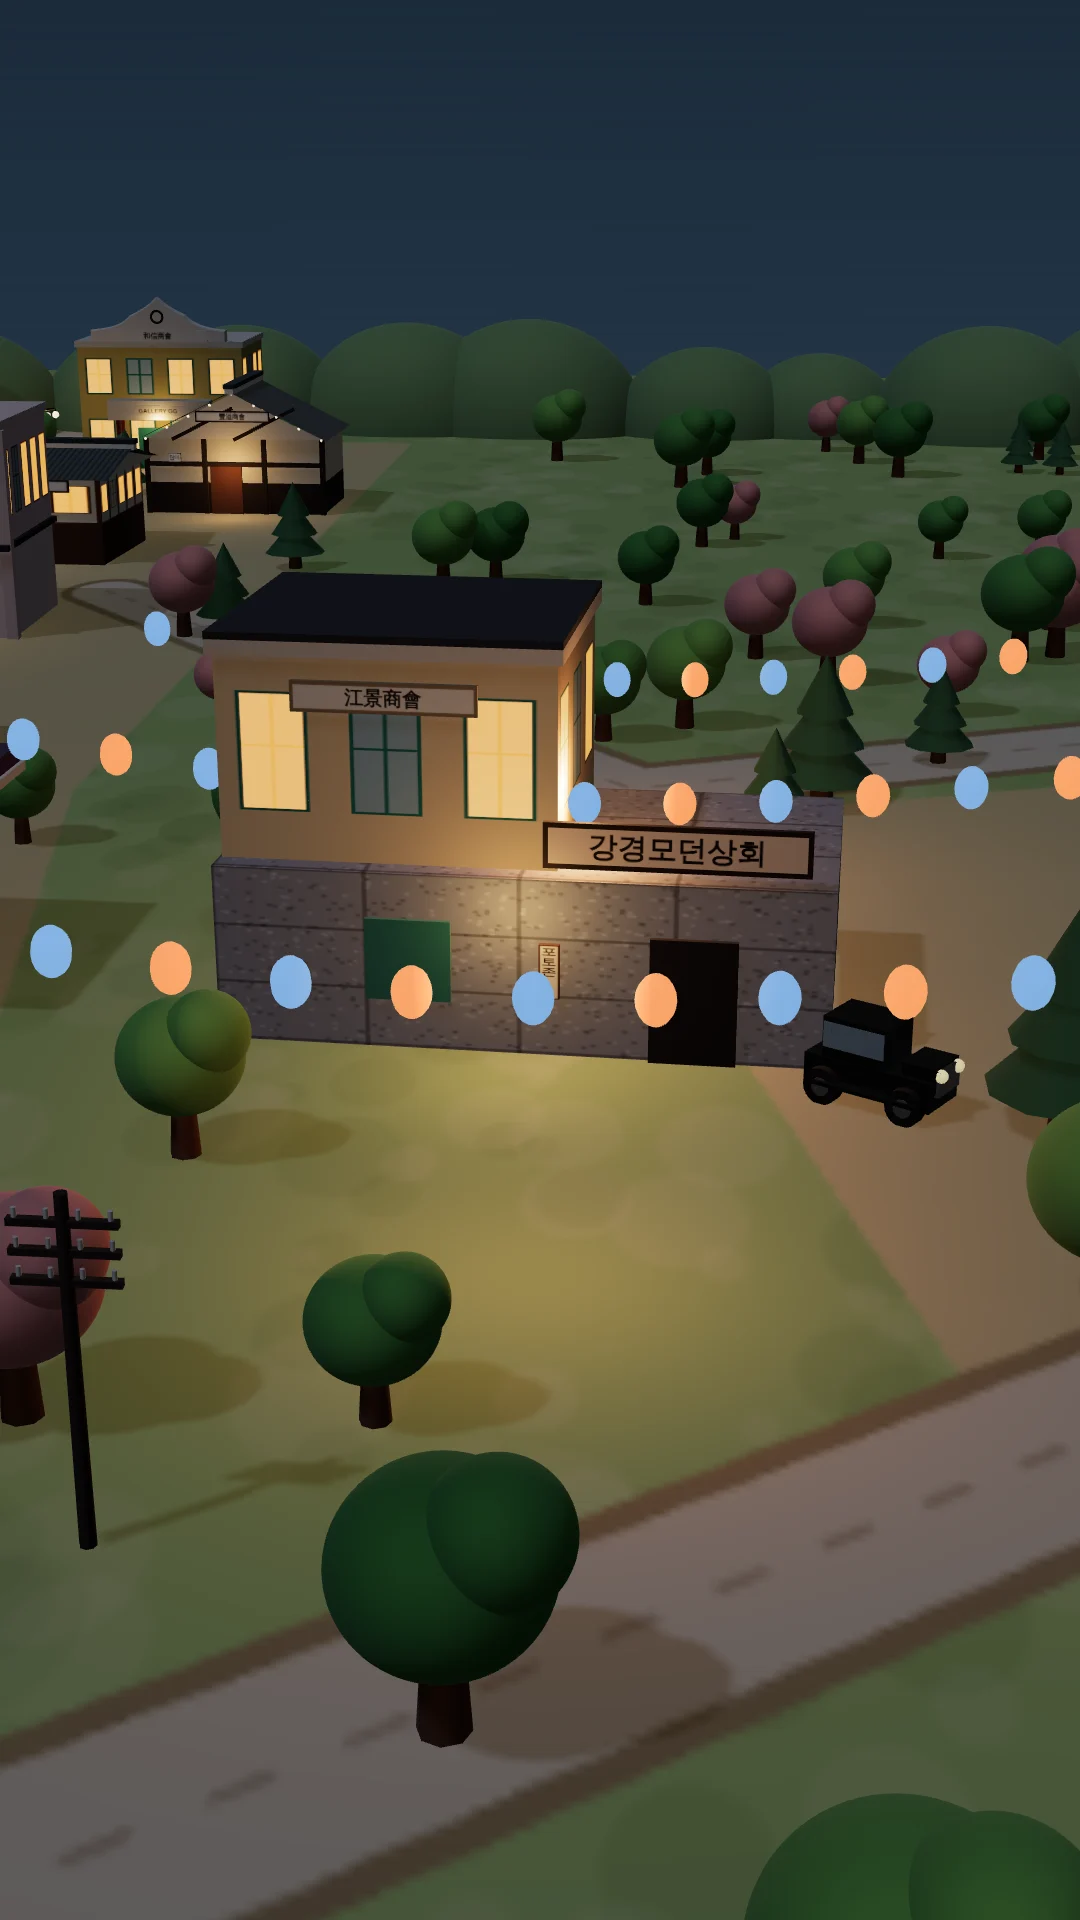
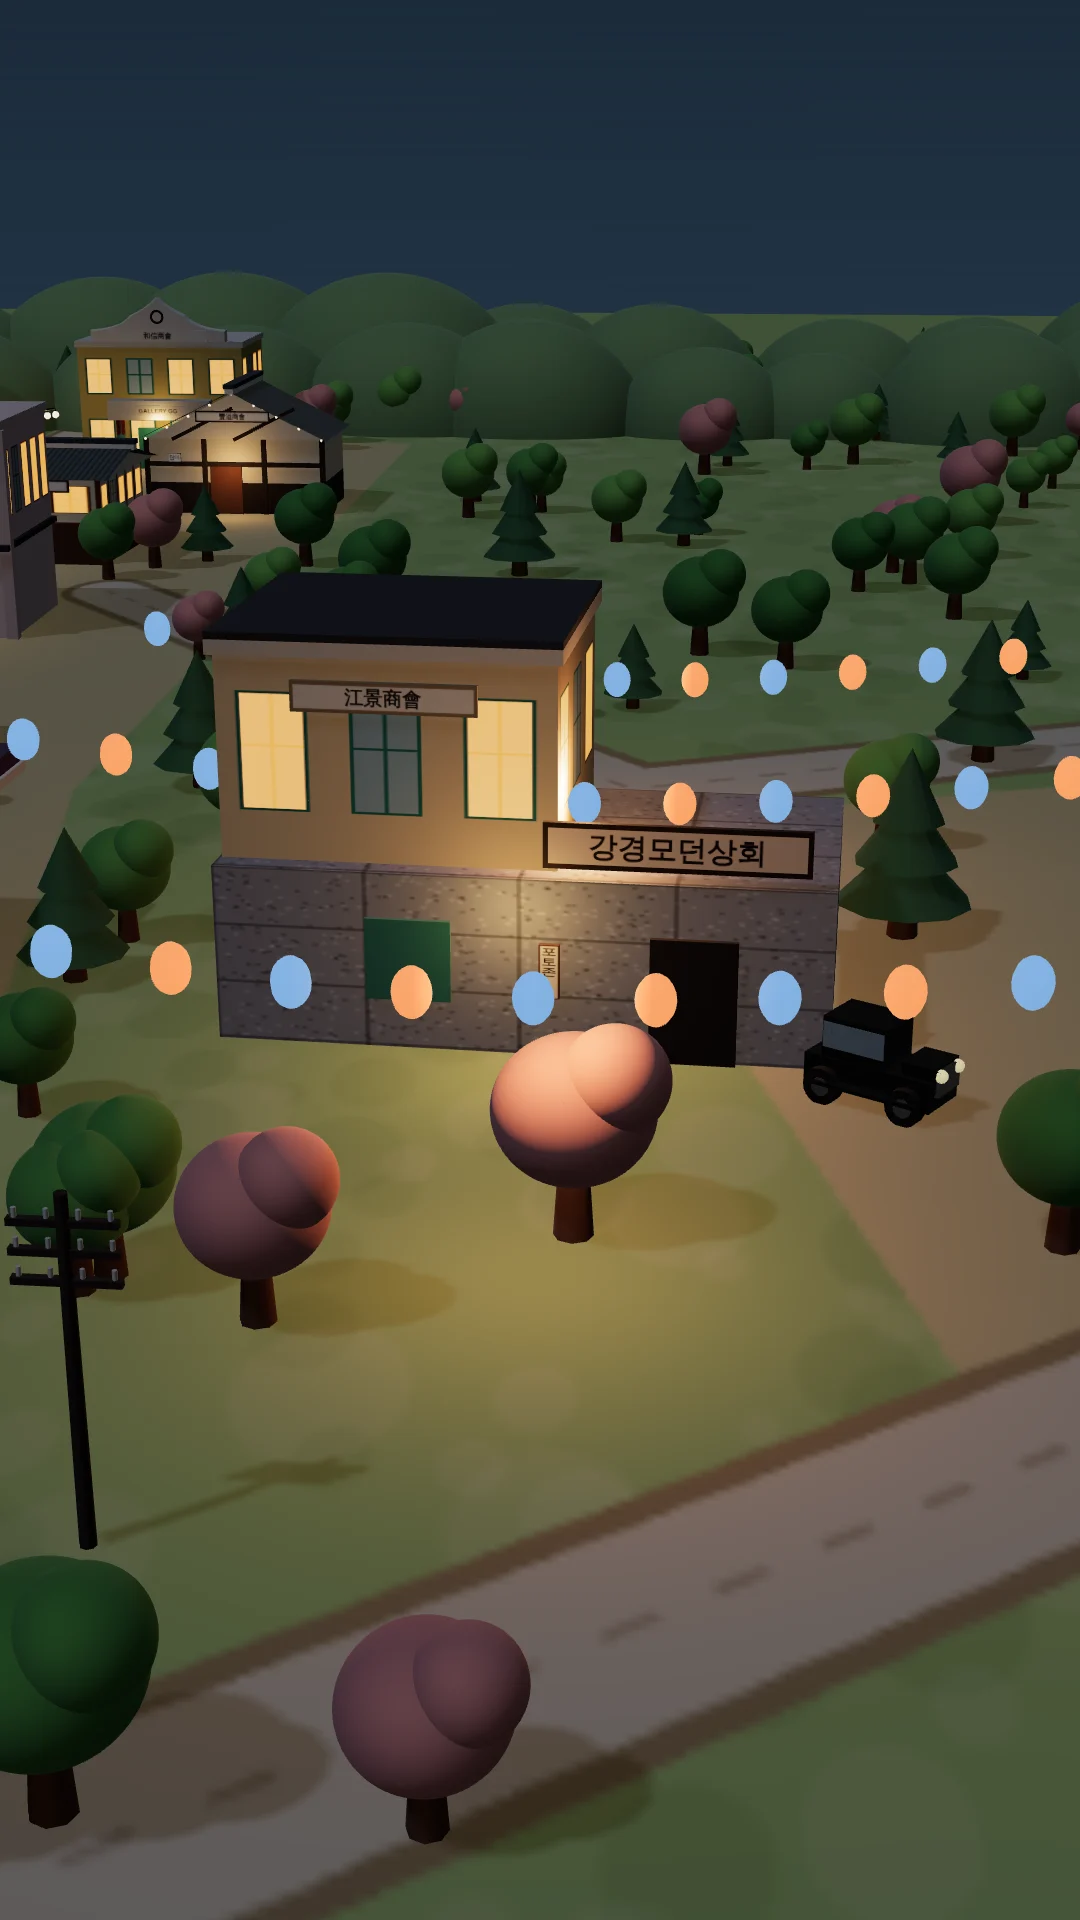
강경호텔·구락부 건물 새로 제작, 지도 축소 시 빈 가장자리 해결
- 강경구락부 건물을 벽돌 몸체 + 크림 모서리 기둥·돌림띠 + 아치 창 + 제대로 된 우진각 금속 지붕으로 새로 제작
- 강경호텔: 서양식(전구 마퀴 간판), 동양식(기와 한옥 + 간판), 가족실(둥근 창·기둥 현관) — 어색하던 돔 정자 제거
- 하나네돈까스·커-피하우스 지붕 정리
- 지도 그림을 둘레 200만큼 더 넓게(산·숲·강) 구워, 최대로 축소하거나 끌어도 빈 곳이 안 보이게

Claude-Session: https://claude.ai/code/session_01KQ2BkdNXvj6GkjXT8LUAK6

diff --git a/scripts/characters3d/buildings.js b/scripts/characters3d/buildings.js
@@ -126,6 +126,31 @@ function plate(text, w, h, { bg = "#F1D66A", fg = "#1F3C88", border = "#7A5A2A",
 
 
 /** 회녹색 금속 판 지붕(모임지붕) — 강경구락부 건물들 */
+/** 진짜 우진각(모임) 지붕: 용마루가 있는 네 경사면 */
+function hipRoof(Wr, Dr, Hr, color = "#6E7A80") {
+  const w = Wr / 2, d = Dr / 2, r = Math.max(0, w - d);
+  const v = [-w, 0, d, w, 0, d, w, 0, -d, -w, 0, -d, -r, Hr, 0, r, Hr, 0];
+  const idx = [0, 1, 5, 0, 5, 4, 1, 2, 5, 2, 3, 4, 2, 4, 5, 3, 0, 4];
+  const geo = new THREE.BufferGeometry(); geo.setAttribute("position", new THREE.Float32BufferAttribute(v, 3)); geo.setIndex(idx); geo.computeVertexNormals();
+  const t = canvasTex(`seam2-${color}`, 128, 128, (c, ww, hh) => { c.fillStyle = color; c.fillRect(0, 0, ww, hh); c.fillStyle = "rgba(255,255,255,.18)"; for (let x = 0; x < ww; x += 8) c.fillRect(x, 0, 1.5, hh); });
+  const uv = []; for (let i = 0; i < v.length; i += 3) uv.push(v[i] / 20, v[i + 2] / 20); geo.setAttribute("uv", new THREE.Float32BufferAttribute(uv, 2));
+  const tt = t.clone(); tt.wrapS = tt.wrapT = THREE.RepeatWrapping; tt.needsUpdate = true;
+  const m = new THREE.Mesh(geo, new THREE.MeshStandardMaterial({ map: tt, roughness: 0.5, metalness: 0.3, side: THREE.DoubleSide }));
+  m.castShadow = m.receiveShadow = true;
+  const g = new THREE.Group(); g.add(m);
+  const eave = new THREE.Mesh(new THREE.BoxGeometry(Wr + 1, 1.2, Dr + 1), flock("#E9E3D4")); eave.position.y = -0.6; g.add(eave);
+  return g;
+}
+/** 강경구락부 2층 건물: 벽돌 몸체 + 크림 모서리 기둥·돌림띠 + 아치 창 + 우진각 금속 지붕 */
+function clubBlock(g, { W, D, H, night, key, roof = "#6E7A80", cols = 4 }) {
+  box(g, brickMat(`cb-${key}`, cols, 2, { frame: "#E6DFCF", arch: true, night }), [W, H, D], [0, H / 2, 0]);
+  const cream = flock("#E9E3D4");
+  for (const sx of [-1, 1]) for (const sz of [-1, 1]) box(g, cream, [4, H, 4], [sx * (W / 2 - 1), H / 2, sz * (D / 2 - 1)]);
+  box(g, cream, [W + 2, 2, D + 2], [0, H * 0.5, 0]);
+  box(g, cream, [W + 3, 3, D + 3], [0, H + 1.5, 0]);
+  box(g, flock("#BFBAB0"), [W + 4, 3, D + 4], [0, 1.5, 0]);
+  const r = hipRoof(W + 6, D + 6, Math.min(W, D) * 0.32, roof); r.position.y = H + 3; g.add(r);
+}
 function metalHip(Wr, Dr, Hr, color = "#7D8C86") {
   const t = canvasTex(`seam-${color}`, 256, 64, (c, w, h) => { c.fillStyle = color; c.fillRect(0, 0, w, h); c.fillStyle = "rgba(255,255,255,.25)"; for (let x = 0; x < w; x += 16) c.fillRect(x, 0, 2, h); c.fillStyle = "rgba(0,0,0,.15)"; for (let x = 8; x < w; x += 16) c.fillRect(x, 0, 1, h); });
   const tt = t.clone(); tt.wrapS = THREE.RepeatWrapping; tt.repeat.set(Wr / 30, 1); tt.needsUpdate = true;
@@ -165,47 +190,41 @@ export function building(a, rand, { night = false } = {}) {
       for (const sx of [-0.5, -0.25, 0, 0.25, 0.5]) box(g, brickMat(`ch-${sx}`, 1, 1), [5, H * 0.55, 5], [sx * W * 1.2, H * 0.275, D / 2 + 2]);
       for (const sx of [-0.37, -0.12, 0.12, 0.37]) box(g, flock("#1E2422"), [W * 0.12, H * 0.42, 1], [sx * W * 1.2, H * 0.21, D / 2 + 1]);
       box(g, flock("#EDE7DA"), [W * 1.36, 3, D + 6], [0, H * 0.55 + 1.5, 0]);
-      const r = metalHip(W * 1.4, D * 1.2, H * 0.36); r.position.y = H * 0.55 + 3 + H * 0.18; g.add(r);
+      const r = hipRoof(W * 1.4, D * 1.15, D * 0.4, "#7D8C86"); r.position.y = H * 0.55 + 3; g.add(r);
       box(g, flock("#C9C6BE"), [W * 1.4, 2, 10], [0, 1, D / 2 + 6]);
       const sg = plate("커-피하우스", W * 0.42, 6, { bg: "#E8E1D0", fg: "#2B2220", border: "#6B5A48", font: "'Song Myung', serif" }); sg.position.set(-W * 0.3, H * 0.5, D / 2 + 3.2); g.add(sg);
       ["江", "景", "俱", "樂", "部"].forEach((ch, i) => { const d = plate(ch, 4, 4, { bg: "#F4F1EA", fg: "#6B2A26", border: "#6B2A26", font: "'Song Myung', serif" }); d.position.set(W * 0.05 + i * 6, H * 0.5, D / 2 + 1); g.add(d); });
       break;
     }
-    case "hotel": { // 강경호텔: 붉은 벽돌 + 크림 석재 2층, 아치 창, 화려한 전구 마퀴 간판, 회색 금속 지붕
-      const Wh = W * 1.25;
-      box(g, brickMat(`hot-${a.id}`, 5, 2, { frame: "#E6DFCF", arch: true, night }), [Wh, H, D], [0, H / 2, 0]);
-      for (const sx of [-0.35, -0.05, 0.25]) box(g, flock("#E6DFCF"), [Wh * 0.16, H, 1], [sx * Wh, H / 2, D / 2 + 0.6]);
-      box(g, flock("#E6DFCF"), [Wh + 3, 4, D + 3], [0, H + 2, 0]);
-      const r = metalHip(Wh + 4, D + 4, H * 0.22, "#6E7A80"); r.position.y = H + 4 + H * 0.11; g.add(r);
-      const mq = plate("강경호텔", W * 0.42, 6, { bg: "#3A2E68", fg: "#F6E7A8", border: "#D9B25E", bulbs: true, night, font: "'Song Myung', serif" }); mq.position.set(0, H * 0.5, D / 2 + 4); g.add(mq);
-      const top = plate("HOTEL", W * 0.24, 5, { bg: "#C8322B", fg: "#F6E7A8", border: "#3A2E68", font: "serif" }); top.position.set(0, H * 0.58, D / 2 + 4); g.add(top);
-      for (const sx of [-1, 1]) box(g, flock("#E6DFCF"), [3, H * 0.48, 3], [sx * W * 0.2, H * 0.24, D / 2 + 4]);
-      box(g, flock("#6B4530"), [W * 0.2, H * 0.36, 1.5], [0, H * 0.18, D / 2 + 1]);
+    case "hotel": { // 강경호텔(서양식): 벽돌·크림 2층, 아치 창, 가운데 크림 현관 + 전구 마퀴 간판
+      const Wh = W * 1.2, Dh = D * 0.9;
+      clubBlock(g, { W: Wh, D: Dh, H, night, key: a.id, cols: 5 });
+      box(g, flock("#E9E3D4"), [W * 0.34, H * 0.62, 6], [0, H * 0.31, Dh / 2 + 2]);
+      box(g, flock("#6B4530"), [W * 0.16, H * 0.3, 1.2], [0, H * 0.15, Dh / 2 + 5.2]);
+      const mq = plate("강경호텔", W * 0.42, 6, { bg: "#3A2E68", fg: "#F6E7A8", border: "#D9B25E", bulbs: true, night, font: "'Song Myung', serif" }); mq.position.set(0, H * 0.48, Dh / 2 + 5.4); g.add(mq);
+      const tp = plate("서양식", W * 0.2, 4, { bg: "#C8322B", fg: "#F6E7A8", border: "#3A2E68", font: "'Song Myung', serif" }); tp.position.set(0, H * 0.6, Dh / 2 + 5.4); g.add(tp);
       break;
     }
-    case "clubround": { // 둥근 창이 있는 크림 석재 건물 + 기둥 포치 (강경구락부)
-      box(g, flock("#E9E3D4"), [W, H * 1.05, D], [0, H * 0.525, 0]);
-      for (const y of [H * 0.75, H * 0.3]) { mesh(new THREE.TorusGeometry(5, 1.2, 10, 24), flock("#CFC6B2"), [-W * 0.25, y, D / 2 + 0.6], [0, 0, 0], g); mesh(new THREE.CircleGeometry(4.5, 24), new THREE.MeshStandardMaterial({ color: "#2F4A50", emissive: night ? "#FFC873" : "#000", emissiveIntensity: night ? 0.8 : 0 }), [-W * 0.25, y, D / 2 + 0.7], [0, 0, 0], g); }
-      box(g, brickMat(`cr-${a.id}`, 3, 1, { arch: true, night }), [W * 0.5, H * 0.45, 1], [W * 0.2, H * 0.25, D / 2 + 0.6]);
-      box(g, flock("#E9E3D4"), [W * 0.8, 3, 18], [W * 0.05, H * 0.55, D / 2 + 9]);
-      for (const sx of [-0.25, 0.35]) mesh(new THREE.CylinderGeometry(2.4, 2.6, H * 0.55, 16), flock("#D9D4C6"), [sx * W, H * 0.275, D / 2 + 16], [0, 0, 0], g);
-      box(g, flock("#D9D4C6"), [W + 3, 3, D + 3], [0, H * 1.05 + 1.5, 0]);
+    case "clubround": { // (예비) 둥근 창 건물
+      clubBlock(g, { W, D: D * 0.9, H, night, key: a.id });
       break;
     }
-    case "clubpavilion": { // 검은 돔 지붕의 유리 정자 + 맞은편 벽돌 건물 (강경구락부)
-      mesh(new THREE.CylinderGeometry(W * 0.36, W * 0.38, H * 0.5, 8), new THREE.MeshPhysicalMaterial({ color: "#2E4A4A", roughness: 0.15, transmission: 0.2, emissive: night ? "#FFC873" : "#000", emissiveIntensity: night ? 0.5 : 0 }), [0, H * 0.25, 0], [0, Math.PI / 8, 0], g);
-      for (let i = 0; i < 8; i++) { const t0 = (i / 8) * Math.PI * 2; box(g, flock("#E9E3D4"), [2.4, H * 0.5, 2.4], [Math.cos(t0) * W * 0.37, H * 0.25, Math.sin(t0) * W * 0.37]); }
-      mesh(new THREE.CylinderGeometry(W * 0.42, W * 0.42, 3, 8), flock("#E9E3D4"), [0, H * 0.52, 0], [0, Math.PI / 8, 0], g);
-      mesh(new THREE.SphereGeometry(W * 0.38, 24, 12, 0, Math.PI * 2, 0, Math.PI / 2), new THREE.MeshPhysicalMaterial({ color: "#26302E", roughness: 0.35, metalness: 0.4 }), [0, H * 0.54, 0], [0, 0, 0], g);
+    case "clubpavilion": { // 강경호텔(가족실): 크림 석재 + 벽돌 2층, 둥근 창, 기둥 현관, 우진각 지붕
+      const Dp = D * 0.85;
+      clubBlock(g, { W, D: Dp, H, night, key: a.id, cols: 3, roof: "#5E6E76" });
+      for (const sx of [-0.25, 0.25]) { mesh(new THREE.TorusGeometry(3.2, 0.8, 8, 20), flock("#E9E3D4"), [sx * W, H * 0.75, Dp / 2 + 0.8], [0, 0, 0], g); mesh(new THREE.CircleGeometry(2.8, 20), new THREE.MeshStandardMaterial({ color: "#2F4A50", emissive: night ? "#FFC873" : "#000", emissiveIntensity: night ? 0.9 : 0 }), [sx * W, H * 0.75, Dp / 2 + 0.9], [0, 0, 0], g); }
+      box(g, flock("#E9E3D4"), [W * 0.5, 2.5, 12], [0, H * 0.45, Dp / 2 + 6]);
+      for (const sx of [-0.2, 0.2]) mesh(new THREE.CylinderGeometry(1.8, 2, H * 0.45, 14), flock("#E9E3D4"), [sx * W, H * 0.225, Dp / 2 + 10], [0, 0, 0], g);
+      const sg = plate("강경호텔 가족실", W * 0.48, 4.5, { bg: "#E9E3D4", fg: "#3A2E2A", border: "#9A8A70", font: "'Song Myung', serif" }); sg.position.set(0, H * 0.53, Dp / 2 + 12.3); g.add(sg);
       break;
     }
-    case "hana": { // 하나네 수제 돈-가스: 붉은 벽돌 + 회색 석재 처마, 회녹 금속 지붕과 높은 채광창, 청록 격자 문, 흰 간판
-      box(g, brickMat(`hana-${a.id}`, 3, 1, { frame: "#2E4A50", night }), [W * 1.1, H * 0.6, D], [0, H * 0.3, 0]);
-      box(g, flock("#CFCBC2"), [W * 1.14, 4, D + 3], [0, H * 0.6 + 2, 0]);
-      const r = metalHip(W * 1.16, D * 1.05, H * 0.28); r.position.y = H * 0.6 + 4 + H * 0.14; g.add(r);
-      box(g, flock("#2B2E30"), [W * 0.7, H * 0.16, D * 0.4], [0, H * 0.6 + 4 + H * 0.26, 0]);
-      const sg = plate("하나네 돈-가스", W * 0.6, 8, { bg: "#F7F5F0", fg: "#1E1E20", border: "#2B2220", sub: "江景俱樂部 · 수제", subColor: "#7A2A26", font: "'Song Myung', serif" }); sg.position.set(0, H * 0.6 + 7, D / 2 + 2); g.add(sg);
-      box(g, flock("#2E4A50"), [W * 0.32, H * 0.42, 1.5], [0, H * 0.21, D / 2 + 1]);
+    case "hana": { // 하나네 수제 돈-가스: 붉은 벽돌 단층 + 크림 처마, 우진각 금속 지붕, 청록 격자 문, 흰 간판
+      const Wn = W * 1.1, Hn = H * 0.6;
+      box(g, brickMat(`hana-${a.id}`, 3, 1, { frame: "#2E4A50", night }), [Wn, Hn, D], [0, Hn / 2, 0]);
+      box(g, flock("#CFCBC2"), [Wn + 3, 3, D + 3], [0, Hn + 1.5, 0]);
+      const r = hipRoof(Wn + 6, D + 6, D * 0.35); r.position.y = Hn + 3; g.add(r);
+      const sg = plate("하나네 돈-가스", W * 0.6, 8, { bg: "#F7F5F0", fg: "#1E1E20", border: "#2B2220", sub: "江景俱樂部 · 수제", subColor: "#7A2A26", font: "'Song Myung', serif" }); sg.position.set(0, Hn + 6, D / 2 + 3); sg.rotation.x = -0.3; g.add(sg);
+      box(g, flock("#2E4A50"), [W * 0.3, Hn * 0.7, 1.5], [0, Hn * 0.35, D / 2 + 1]);
       break;
     }
     case "taechang": { // 太昌商會: 기와 맞배 단층 목조, 박공에 큰 현판, 흰 회벽 + 아래 나무 판벽, 園道食·元冷祖面 간판
@@ -463,7 +482,7 @@ export function building(a, rand, { night = false } = {}) {
       for (const sx of [-0.5, -0.17, 0.17, 0.5]) box(g, wood, [3.4, H * 0.66, 3.4], [sx * W, 6 + H * 0.33, D / 2 + 1]);
       box(g, wood, [W + 4, 4, D + 4], [0, 6 + H * 0.64, 0]);
       const r = paljakRoof(W * 1.42, D * 1.55, H * 0.62); r.position.y = 6 + H * 0.64; g.add(r);
-      const s = signboard(name, Math.min(W * 0.55, 46), "#3B2A20"); s.position.set(0, 6 + H * 0.56, D / 2 + 2.6); g.add(s);
+      const s = signboard(a.id === "hotel-east" ? "강경호텔 동양식" : name, Math.min(W * 0.55, 46), "#3B2A20"); s.position.set(0, 6 + H * 0.56, D / 2 + 2.6); g.add(s);
       break;
     }
     case "brick": { // 붉은 벽돌 근대 건물 (아치 창, 흰 돌림띠, 박공)

diff --git a/scripts/characters3d/diorama.js b/scripts/characters3d/diorama.js
@@ -134,7 +134,7 @@ function ground(scene) {
     for (let t = 0; t < 1; t += 0.012) { const y = 1010 - t * 780, x = 315 + Math.sin(t * 9) * 12; c.beginPath(); c.ellipse((x - BOX.x) * k, (y - BOX.y) * k, 5, 3.5, 0, 0, 7); c.fill(); }
   });
   tex.anisotropy = 8;
-  const plane = new THREE.Mesh(new THREE.PlaneGeometry(BOX.w + 400, (BOX.h + 400) / S), flock("#ffffff", { map: null }));
+  const plane = new THREE.Mesh(new THREE.PlaneGeometry(BOX.w + 1200, (BOX.h + 1200) / S), flock("#ffffff", { map: null }));
   plane.material = new THREE.MeshStandardMaterial({ map: tex, roughness: 0.95 });
   // 텍스처는 지도 범위에만 맞추고 바깥은 같은 풀빛으로
   const inner = new THREE.Mesh(new THREE.PlaneGeometry(BOX.w, BOX.h / S), new THREE.MeshStandardMaterial({ map: tex, roughness: 0.95 }));
@@ -145,7 +145,7 @@ function ground(scene) {
 }
 function river(scene) {
   const shape = new THREE.Shape();
-  const pts = [[1350, 880], [1250, 960], [1150, 1010], [1040, 1070], [960, 1140], [1350, 1140]];
+  const pts = [[1700, 700], [1350, 880], [1250, 960], [1150, 1010], [1040, 1070], [960, 1140], [880, 1400], [1700, 1400]];
   pts.forEach(([x, y], i) => { const v = [x, y / S]; i ? shape.lineTo(...v) : shape.moveTo(...v); });
   const geo = new THREE.ShapeGeometry(shape);
   const water = new THREE.Mesh(geo, new THREE.MeshPhysicalMaterial({ color: "#5E9DA6", roughness: 0.15, clearcoat: 1, side: THREE.DoubleSide }));
@@ -271,9 +271,10 @@ export function buildDiorama(scene, locs, { night = false, only = null } = {}) {
   for (const a of locs) { if (only && a.id !== only) continue; const b = building2(a, r, { night }); b.position.copy(P(a.x, a.y - 4)); scene.add(b); }
   // 산 (지도 위쪽 가장자리)
   for (let x = 250; x < 1360; x += 85) mountain(scene, x + r() * 30, 52 + r() * 18, 0.8 + r() * 0.5);
+  for (let x = -20; x < 1600; x += 95) mountain(scene, x + r() * 30, -40 + r() * 30, 1 + r() * 0.6);
   // 나무: 장소·길을 피해서
   const free = (x, y) => locs.every((l) => Math.hypot(l.x - x, l.y - y) > 70) && Math.abs(x - (508 - (y - 40) * 0.0236)) > 34 && !(x > 950 && y > 900);
-  for (let i = 0; i < 260; i++) { const x = 250 + r() * 1090, y = 110 + r() * 1020; if (free(x, y)) tree(scene, x, y, 0.7 + r() * 0.5, r() < 0.3 ? "pine" : "round"); }
+  for (let i = 0; i < 520; i++) { const x = 20 + r() * 1540, y = -120 + r() * 1440; const outside = x < 240 || x > 1340 || y < 50 || y > 1130; if ((outside && !(x > 900 && y > 900)) || (!outside && free(x, y))) tree(scene, x, y, 0.7 + r() * 0.5, r() < 0.3 ? "pine" : "round"); }
   // 감성산책로: 옛 포구 장터의 고양이 이야기 — 산책로 곳곳의 고양이 가족 조형물
   if (!only) for (const [v, y, ry] of [["kangi", 330, 0.9], ["kaengi", 640, 0.6], ["kongi", 905, 1.1]]) { const c = makeCat(v, "idle"); c.scale.setScalar(7); c.position.copy(P(332, y)); c.rotation.y = ry; scene.add(c); }
   if (!only || ["coffee-interview", "hotel-west", "hotel-east", "hotel-family", "hana-donkatsu"].includes(only)) clubSquare(scene, night);

diff --git a/scripts/characters3d/stage.html b/scripts/characters3d/stage.html
@@ -49,7 +49,7 @@ window.renderNpc = (id) => shoot(id === "postman" ? makeMagpie() : makeNpc(id), 
 // 지도 배경: 비스듬한 정사영. 지도 좌표 1 = 그림 2픽셀
 window.renderMap = async (mode = "day") => {
   const locs = await (await fetch("./locations.json")).json();
-  const k = 2, w = BOX.w * k, h = BOX.h * k;
+  const M = 200, k = 2, w = (BOX.w + 2 * M) * k, h = (BOX.h + 2 * M) * k; // 가장자리 여백까지 그려서 축소해도 빈 곳이 없게
   renderer.setSize(w, h);
   const scene = new THREE.Scene(); scene.environment = envTex; scene.environmentIntensity = { night: 0.06, dusk: 0.18, dawn: 0.25 }[mode] ?? 0.35;
   renderer.toneMappingExposure = { night: 0.85, dusk: 0.9 }[mode] ?? 0.92;
@@ -58,7 +58,7 @@ window.renderMap = async (mode = "day") => {
   lights(scene, mode);
   const S = Math.sin(PITCH), C = Math.cos(PITCH);
   const target = new THREE.Vector3(BOX.x + BOX.w / 2, 0, (BOX.y + BOX.h / 2) / S);
-  const cam = new THREE.OrthographicCamera(-BOX.w / 2, BOX.w / 2, BOX.h / 2, -BOX.h / 2, 1, 5000);
+  const cam = new THREE.OrthographicCamera(-BOX.w / 2 - M, BOX.w / 2 + M, BOX.h / 2 + M, -BOX.h / 2 - M, 1, 5000);
   cam.position.copy(target).add(new THREE.Vector3(0, S, C).multiplyScalar(2000)); cam.up.set(0, 1, 0); cam.lookAt(target);
   renderer.render(scene, cam);
   const url = renderer.domElement.toDataURL("image/webp", 0.86);

diff --git a/components/art/WorldMap.tsx b/components/art/WorldMap.tsx
@@ -13,10 +13,10 @@ export default function WorldMap({ locations, state, selId, onSelect, className,
   const dt = useDaytime();
   const night = dt.phase === "night" || (dt.phase === "dusk" && dt.t > 0.5);
   return (
-    <svg viewBox="230 40 1120 1100" className={className} style={style} role="img" aria-label="강경근대거리 미니어처 지도">
+    <svg viewBox="230 40 1120 1100" className={className} style={{ overflow: "visible", ...style }} role="img" aria-label="강경근대거리 미니어처 지도">
       {/* 실제 시간대 그림 + 다음 시간대가 서서히 겹쳐짐 */}
-      <image href={`/world/map-${dt.phase}.webp`} x="230" y="40" width="1120" height="1100" preserveAspectRatio="none" />
-      {dt.t > 0 && <image href={`/world/map-${dt.next}.webp`} x="230" y="40" width="1120" height="1100" preserveAspectRatio="none" opacity={dt.t} style={{ transition: "opacity 2s" }} />}
+      <image href={`/world/map-${dt.phase}.webp`} x="30" y="-160" width="1520" height="1500" preserveAspectRatio="none" />
+      {dt.t > 0 && <image href={`/world/map-${dt.next}.webp`} x="30" y="-160" width="1520" height="1500" preserveAspectRatio="none" opacity={dt.t} style={{ transition: "opacity 2s" }} />}
       {locations.map((l) => {
         const v = !!state.visits[l.id];
         const sel = selId === l.id;

diff --git a/app/explore/page.tsx b/app/explore/page.tsx
@@ -62,12 +62,13 @@ export default function Explore() {
   const clamp = (v: View): View => {
     const b = box.current; if (!b) return v;
     const vw = b.clientWidth, vh = b.clientHeight;
-    const minK = Math.max(vw / W, vh / H);
+    // 그림은 지도 둘레로 200만큼 더 그려져 있어요. 그 안에서만 움직이고 축소되게
+    const M = 200;
+    const minK = Math.max(vw / (W + 2 * M), vh / (H + 2 * M), 0.35);
     const k = Math.min(2.4, Math.max(minK, v.k));
-    // 위·아래 겹쳐진 버튼 밑의 장소도 끌어내려 누를 수 있도록 여유를 둠
-    const padT = 150, padB = 120, padX = 40;
-    const x = Math.min(padX, Math.max(vw - W * k - padX, v.x));
-    const y = Math.min(padT, Math.max(vh - H * k - padB, v.y));
+    const pad = M * k;
+    const x = Math.min(pad, Math.max(vw - W * k - pad, v.x));
+    const y = Math.min(pad, Math.max(vh - H * k - pad, v.y));
     return { x, y, k };
   };
   const centerOn = useCallback((mx: number, my: number, animate = true, k?: number) => {
